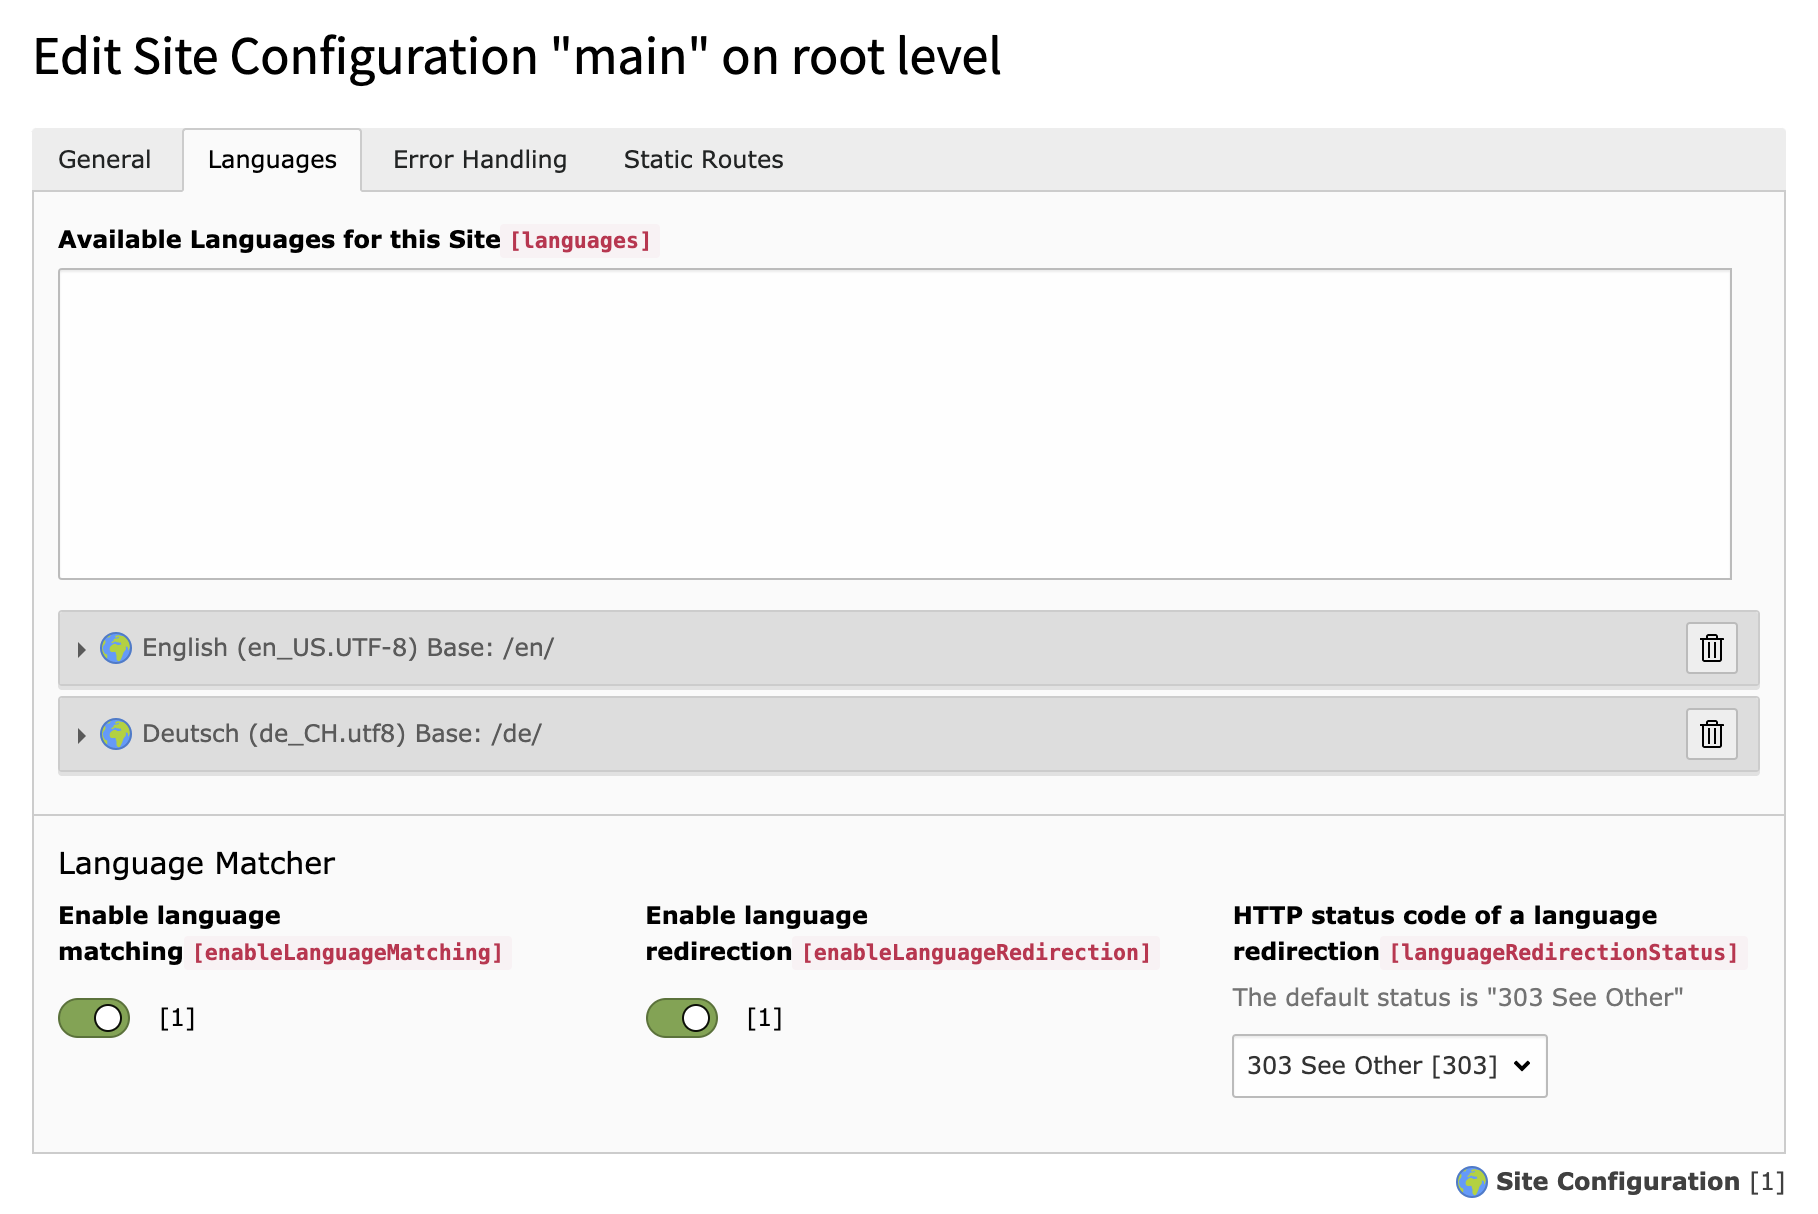
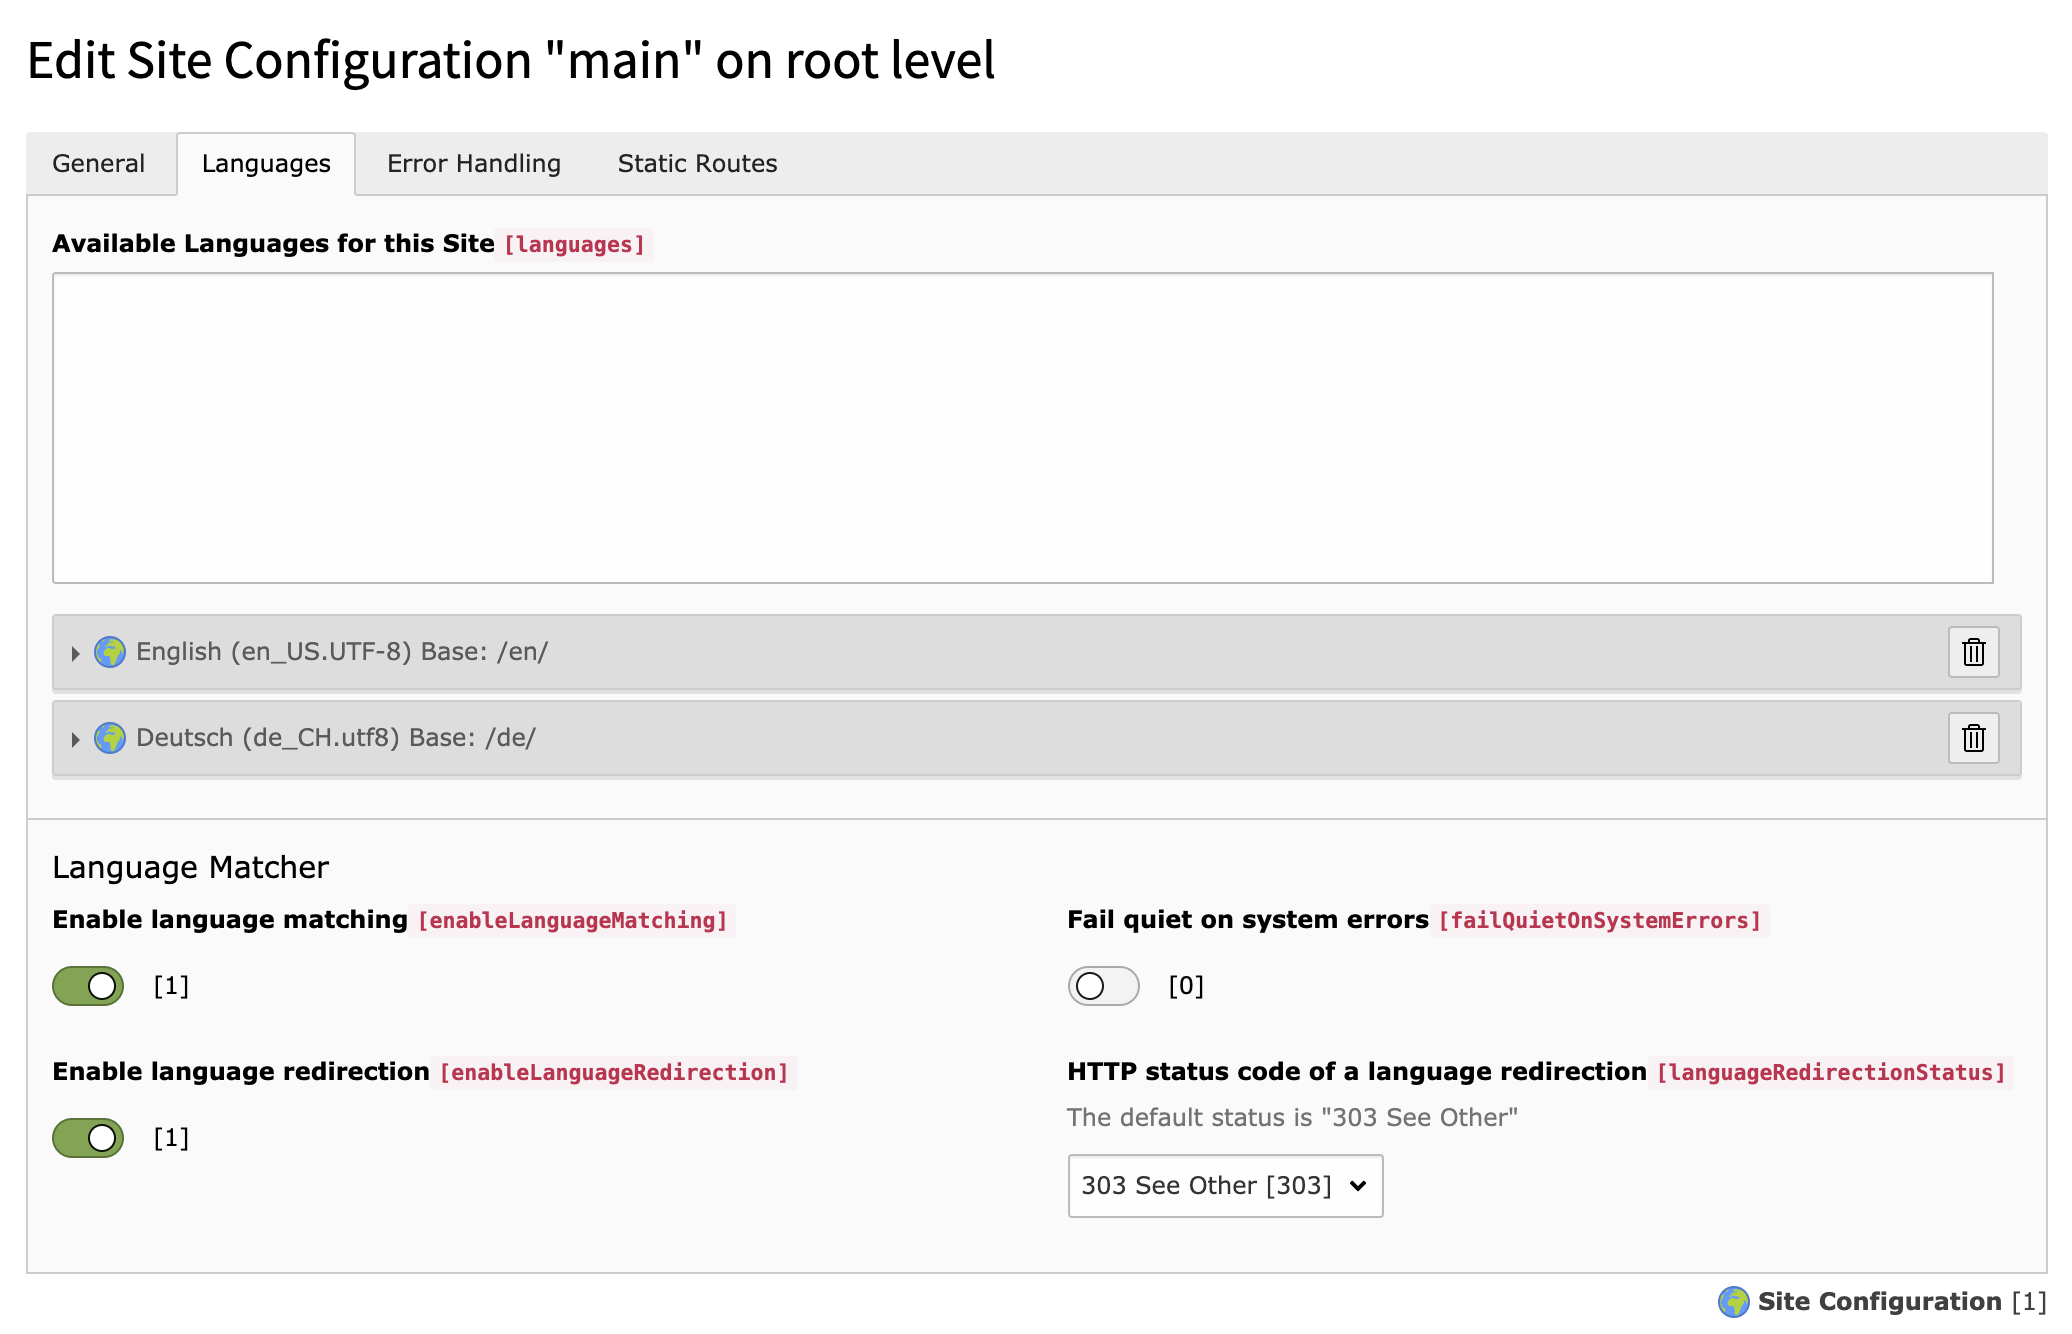
[TASK] Separate system-requirement-checks
System errors should be handeled differently. The request- and
configuration-based checks are not to be treated the same way.

Additionally make sure the matchedLanguage aspect is present in any
case.

diff --git a/Classes/Http/Middleware/LanguageRecognitionMiddleware.php b/Classes/Http/Middleware/LanguageRecognitionMiddleware.php
@@ -64,24 +64,29 @@ class LanguageRecognitionMiddleware implements MiddlewareInterface, LoggerAwareI
      */
     public function process(ServerRequestInterface $request, RequestHandlerInterface $handler): ResponseInterface
     {
-        if (!$this->shouldProcessLanguageMatching($request)) {
+        if (!$this->canProcessLanguageMatching($request)) {
+            // Early return when the system is not in the expected state. Make
+            // sure the aspect exists to prevent errors.
+            $this->context->setAspect('matchedLanguage', new MatchedLanguageAspect());
             return $handler->handle($request);
         }
 
         $matchingLanguage = null;
-        $acceptableLanguageCandidates = $this->getAcceptableLanguageCandidates($request);
-        if (!empty($acceptableLanguageCandidates)) {
-            $matchingLanguage = $this->getMatchingLanguage($request, $acceptableLanguageCandidates);
+        if ($this->shouldProcessLanguageMatching($request)) {
+            $acceptableLanguageCandidates = $this->getAcceptableLanguageCandidates($request);
+            if (!empty($acceptableLanguageCandidates)) {
+                $matchingLanguage = $this->getMatchingLanguage($request, $acceptableLanguageCandidates);
 
-            if ($matchingLanguage !== null && $this->shouldRedirectToLanguage($request, $matchingLanguage)) {
-                $response = $this->getLanguageRedirectionResponse($request, $matchingLanguage);
-                $this->logger->info('Sending language redirect response', [
-                    'accept-language-header' => $request->getHeaderLine('accept-language'),
-                    'target-language-id' => $matchingLanguage->getLanguageId(),
-                    'request-uri' => (string)$request->getUri(),
-                    'redirect-location-uri' => $response->getHeaderLine('Location')
-                ]);
-                return $response;
+                if ($matchingLanguage !== null && $this->shouldRedirectToLanguage($request, $matchingLanguage)) {
+                    $response = $this->getLanguageRedirectionResponse($request, $matchingLanguage);
+                    $this->logger->info('Sending language redirect response', [
+                        'accept-language-header' => $request->getHeaderLine('accept-language'),
+                        'target-language-id' => $matchingLanguage->getLanguageId(),
+                        'request-uri' => (string)$request->getUri(),
+                        'redirect-location-uri' => $response->getHeaderLine('Location')
+                    ]);
+                    return $response;
+                }
             }
         }
 
@@ -109,19 +114,51 @@ class LanguageRecognitionMiddleware implements MiddlewareInterface, LoggerAwareI
 
     /**
      * @param ServerRequestInterface $request
+     * @throws \RuntimeException
+     * @return bool
+     */
+    protected function canProcessLanguageMatching(ServerRequestInterface $request): bool
+    {
+        try {
+            $siteObjectIsOk = false;
+            $site = $request->getAttribute('site');
+            if (!$site instanceof Site) {
+                $type = gettype($site) === 'object' ? get_class($site) : gettype($site);
+                throw new \RuntimeException('Request attribute "site" is expected to be ' . Site::class . '. Got ' . $type . ' instead.');
+            }
+            $siteObjectIsOk = true;
+            $pageArguments = $request->getAttribute('routing');
+            if (!$pageArguments instanceof PageArguments) {
+                $type = gettype($pageArguments) === 'object' ? get_class($pageArguments) : gettype($pageArguments);
+                throw new \RuntimeException('Request attribute "routing" is expected to be ' . PageArguments::class . '. Got ' . $type . ' instead.');
+            }
+            $currentSiteLanguage = $request->getAttribute('language');
+            if (!$currentSiteLanguage instanceof SiteLanguage) {
+                $type = gettype($currentSiteLanguage) === 'object' ? get_class($currentSiteLanguage) : gettype($currentSiteLanguage);
+                throw new \RuntimeException('Request attribute "language" is expected to be ' . SiteLanguage::class . '. Got ' . $type . ' instead.');
+            }
+        } catch(\RuntimeException $e) {
+            $this->logger->critical($e->getMessage(), [
+                'site-identifier' => $siteObjectIsOk ? $site->getIdentifier() : null,
+                'request-uri' => (string)$request->getUri(),
+            ]);
+            if ($siteObjectIsOk && $site->getConfiguration()['failQuietOnSystemErrors']) {
+                return false;
+            }
+            throw $e;
+        }
+
+        return true;
+    }
+
+    /**
+     * @param ServerRequestInterface $request
      * @return bool
      */
     protected function shouldProcessLanguageMatching(ServerRequestInterface $request): bool
     {
-        // Check the request attributes (initial system-test)
+        /** @var Site $site */
         $site = $request->getAttribute('site');
-        if (!$site instanceof Site) {
-            $type = gettype($site);
-            $this->logger->critical('Request attribute "site" is not the correct type', [
-                'type' => $type === 'object' ? get_class($site) : $type,
-            ]);
-            return false;
-        }
         if (!$this->getSiteConfiguration($request)['enableLanguageMatching']) {
             $this->logger->debug('Language matching is not enabled for this site', [
                 'site-identifier' => $site->getIdentifier(),
@@ -142,25 +179,6 @@ class LanguageRecognitionMiddleware implements MiddlewareInterface, LoggerAwareI
         } elseif ($this->isBotRequest($request)) {
             $this->logger->info('Skip language matching: found bot', [
                 'user-agent' => $request->getHeaderLine('user-agent'),
-            ]);
-            return false;
-        }
-
-        // Check the remaining request attributes
-        $pageArguments = $request->getAttribute('routing');
-        if (!$pageArguments instanceof PageArguments) {
-            $type = gettype($pageArguments);
-            $this->logger->critical('Request attribute "routing" is not the correct type', [
-                'type' => $type === 'object' ? get_class($pageArguments) : $type,
-            ]);
-            return false;
-        }
-
-        $currentSiteLanguage = $request->getAttribute('language');
-        if (!$currentSiteLanguage instanceof SiteLanguage) {
-            $type = gettype($currentSiteLanguage);
-            $this->logger->critical('Request attribute "language" is not the correct type', [
-                'type' => $type === 'object' ? get_class($currentSiteLanguage) : $type,
             ]);
             return false;
         }

diff --git a/Configuration/SiteConfiguration/Overrides/sites.php b/Configuration/SiteConfiguration/Overrides/sites.php
@@ -41,6 +41,14 @@ $siteColumns = [
             ],
         ],
     ],
+    'failQuietOnSystemErrors' => [
+        'label' => 'LLL:EXT:language_matcher/Resources/Private/Language/backend.xlf:site.failQuietOnSystemErrors',
+        'config' => [
+            'type' => 'check',
+            'renderType' => 'checkboxToggle',
+            'default' => false,
+        ],
+    ],
 ];
 
 $GLOBALS['SiteConfiguration']['site']['columns'] = array_merge($GLOBALS['SiteConfiguration']['site']['columns'], $siteColumns);
@@ -50,6 +58,7 @@ $2', $GLOBALS['SiteConfiguration']['site']['types']['0']['showitem']);
 
 $GLOBALS['SiteConfiguration']['site']['palettes']['languagematcher'] = [
     'showitem' => '
-        enableLanguageMatching, enableLanguageRedirection, languageRedirectionStatus,
+        enableLanguageMatching, failQuietOnSystemErrors, --linebreak--,
+        enableLanguageRedirection, languageRedirectionStatus,
     ',
 ];

diff --git a/Documentation/Configuration/Index.rst b/Documentation/Configuration/Index.rst
@@ -37,8 +37,30 @@ enableLanguageMatching
     :code:`false`
 
 :aspect:`Description`
-    En- or disables the language matching. Or in other words: en-/disables the
-    whole functionality of the extension for the Site.
+    En- or disables the language matching.
+
+
+failQuietOnSystemErrors
+-----------------------
+
+:aspect:`Title`
+    Fail quiet on system errors
+
+:aspect:`Datatype`
+    bool
+
+:aspect:`Default`
+    :code:`false`
+
+:aspect:`Description`
+    Setting this option to :code:`true` will suppress :php:`\RuntimeException`
+    being thrown when the system is not in the expected state. The errors will
+    be logged anyway.
+
+    .. note::
+
+        Be sure to closely monitor your logs when this option is turned on.
+        Otherwise, you might miss important information.
 
 
 enableLanguageRedirection

diff --git a/Documentation/MatchedLanguageAspect/Index.rst b/Documentation/MatchedLanguageAspect/Index.rst
@@ -52,11 +52,3 @@ PHP Example
         // Retrieve the navigationTitle of the matched language
         $linkText = $context->getPropertyFromAspect('matchedLanguage', 'navigationTitle');
     }
-
-
-.. note::
-
-    When the extension is not enabled for a site, the aspect does not exist.
-    Trying to access it would in that case lead to a
-    :php:`TYPO3\CMS\Core\Context\Exception\AspectNotFoundException`.
-
